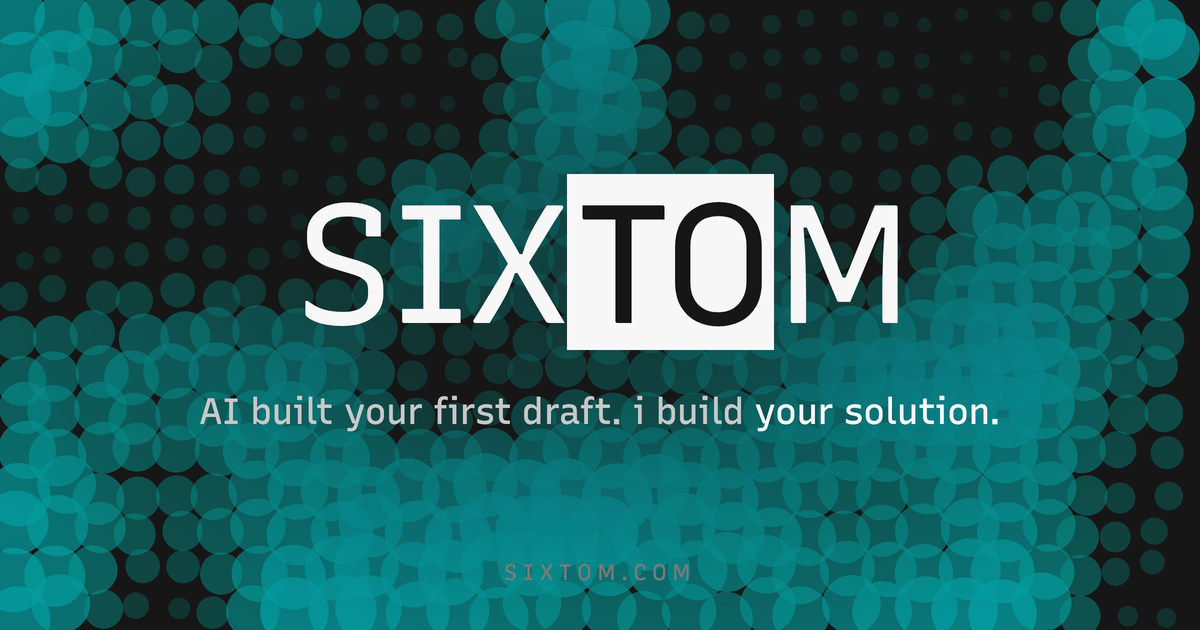
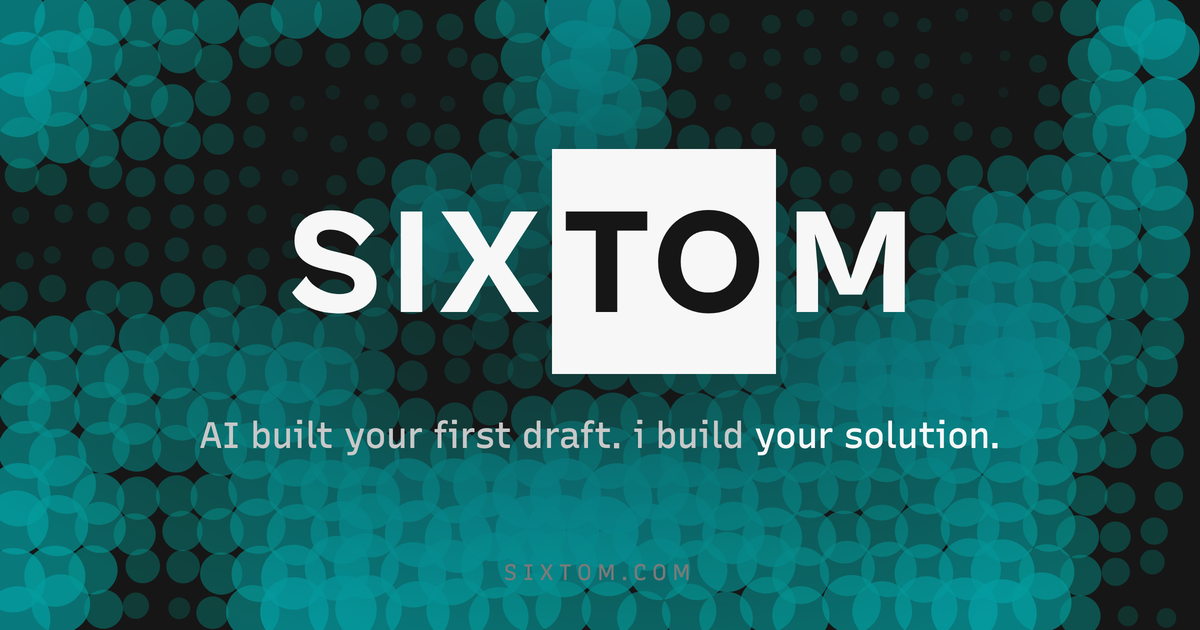
brand: Cabinet Grotesk display face + systematized wordmark chip
Display font swaps from Space Grotesk to Cabinet Grotesk (variable,
100-900, Fontshare ITF FFL — license in docs/). The wordmark chip is no
longer hand-tuned padding: one value (--wm-ls: 0.08em) drives the letter
gaps, the chip's x-padding, and the gaps flanking the chip, and the chip
is a square with TO cap-centered (text-box trim; untrimmed browsers just
get a slightly taller chip). Footer, OG card, and app.html preload all
follow. og.png regenerated via build-og.mjs with the same rule.

Cabinet over the Poppins-family original: real 800 weight for live text,
nine weights for hierarchy across properties, flat-sided rounds that
rhyme with the square chip, and it isn't a Canva default.

Claude-Session: https://claude.ai/code/session_01KkSZmET2PrafrCpxNNWK6n

Changed region(s): [[0.2467, 0.2111, 0.7708, 0.6032], [0.1542, 0.6333, 0.8325, 0.7238]]

diff --git a/src/app.css b/src/app.css
@@ -11,11 +11,11 @@
 		U+2000-206F, U+20AC, U+2122, U+2191, U+2193, U+2212, U+2215, U+FEFF, U+FFFD;
 }
 @font-face {
-	font-family: 'Space Grotesk';
+	font-family: 'Cabinet Grotesk';
 	font-style: normal;
 	font-weight: 100 900;
 	font-display: swap;
-	src: url('/fonts/space-grotesk.woff2') format('woff2');
+	src: url('/fonts/cabinet-grotesk.woff2') format('woff2');
 	unicode-range:
 		U+0000-00FF, U+0131, U+0152-0153, U+02BB-02BC, U+02C6, U+02DA, U+02DC, U+0304, U+0308, U+0329,
 		U+2000-206F, U+20AC, U+2122, U+2191, U+2193, U+2212, U+2215, U+FEFF, U+FFFD;
@@ -29,7 +29,7 @@
 	--font-sans:
 		'Recursive', ui-monospace, SFMono-Regular, 'SF Mono', Menlo, Monaco, Consolas, monospace;
 	--font-display:
-		'Space Grotesk', system-ui, -apple-system, BlinkMacSystemFont, 'Segoe UI', sans-serif;
+		'Cabinet Grotesk', system-ui, -apple-system, BlinkMacSystemFont, 'Segoe UI', sans-serif;
 
 	--color-surface: oklch(14.5% 0 0);
 	--color-fg: oklch(97% 0 0);
@@ -107,6 +107,39 @@
 	color: var(--color-accent);
 	letter-spacing: 0.1em;
 	text-transform: uppercase;
+}
+
+/* SIXTOM wordmark lockup. One var drives the whole system: letter gaps, the
+ * chip's x-padding, and the gaps flanking the chip all equal --wm-ls. The chip
+ * itself is a square (aspect 1:1) with TO cap-centered — the trailing
+ * letter-space after the O acts as the right padding, and .m cancels the
+ * wordmark's own trailing space so centered layouts stay optically centered.
+ * text-box-trim makes the vertical geometry exact; without support the chip
+ * just runs slightly taller. */
+.wordmark {
+	--wm-ls: 0.08em;
+	display: inline-flex;
+	align-items: baseline;
+	font-family: var(--font-display);
+	font-weight: 800;
+	letter-spacing: var(--wm-ls);
+	text-transform: uppercase;
+	line-height: 1;
+}
+.wordmark .chip {
+	background: var(--color-fg);
+	color: var(--color-surface);
+	display: inline-flex;
+	align-items: center;
+	aspect-ratio: 1;
+	padding-left: var(--wm-ls);
+	margin-right: var(--wm-ls);
+}
+.wordmark .chip > span {
+	text-box: trim-both cap alphabetic;
+}
+.wordmark .m {
+	margin-right: calc(-1 * var(--wm-ls));
 }
 
 @utility text-accent {

diff --git a/src/lib/components/SiteFooter.svelte b/src/lib/components/SiteFooter.svelte
@@ -11,10 +11,9 @@
 			href="/"
 			aria-label="sixtom home"
 			data-umami-event="footer_home"
-			class="no-link text-fg inline-flex items-baseline text-2xl leading-none font-bold tracking-tight uppercase"
+			class="no-link text-fg wordmark text-2xl"
 		>
-			<span class="pr-0.5">six</span><span class="bg-fg text-surface px-px pt-0.5 pb-px">to</span
-			><span class="pl-px">m</span>
+			<span>six</span><span class="chip"><span>to</span></span><span class="m">m</span>
 		</a>
 		<div class="text-fg-subtle flex flex-wrap items-center justify-center gap-x-5 gap-y-2 text-xs">
 			<span>© {year}</span>

diff --git a/src/app.html b/src/app.html
@@ -30,7 +30,7 @@
 		/>
 		<link
 			rel="preload"
-			href="%sveltekit.assets%/fonts/space-grotesk.woff2"
+			href="%sveltekit.assets%/fonts/cabinet-grotesk.woff2"
 			as="font"
 			type="font/woff2"
 			crossorigin
